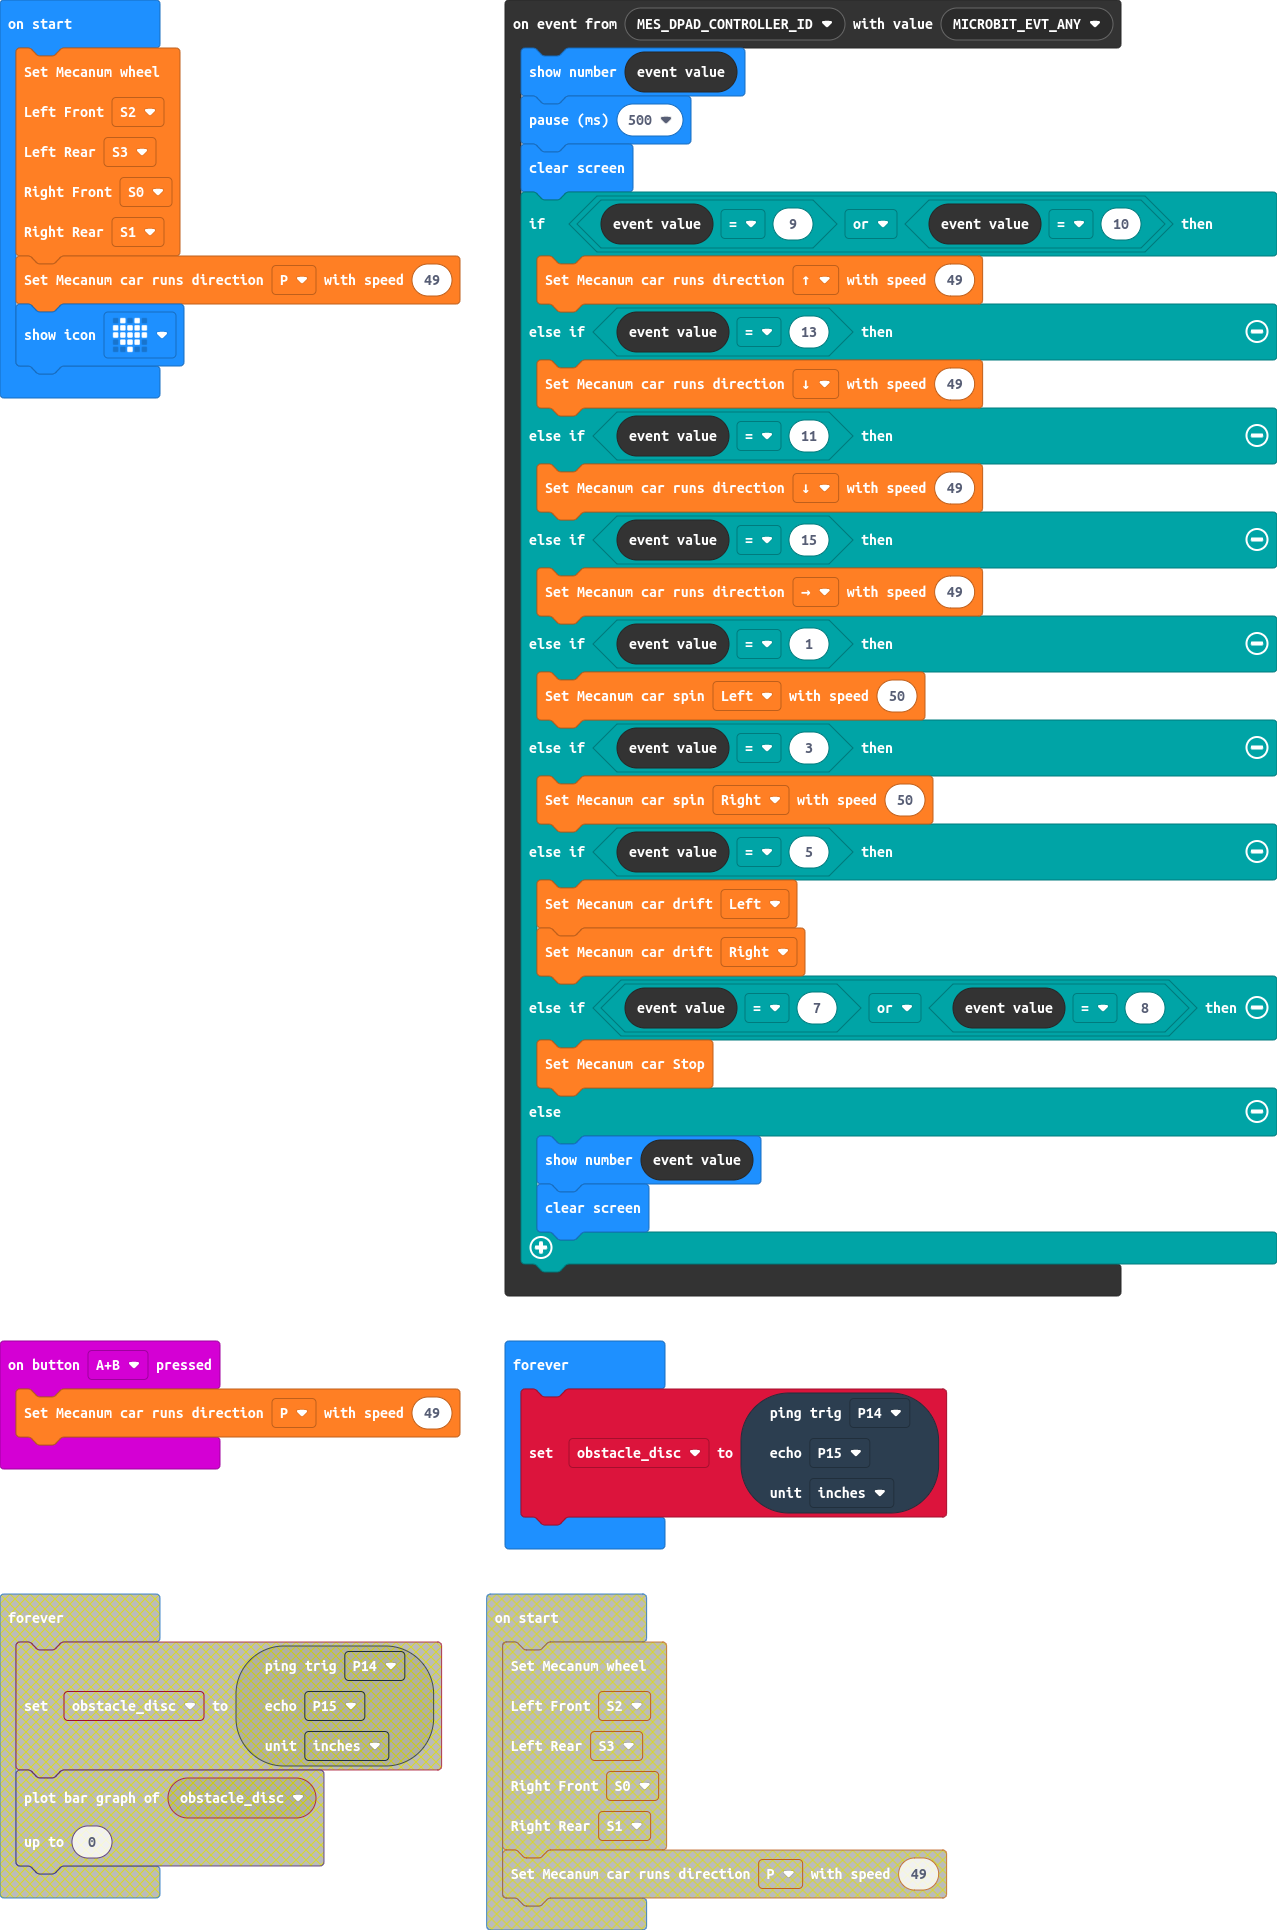
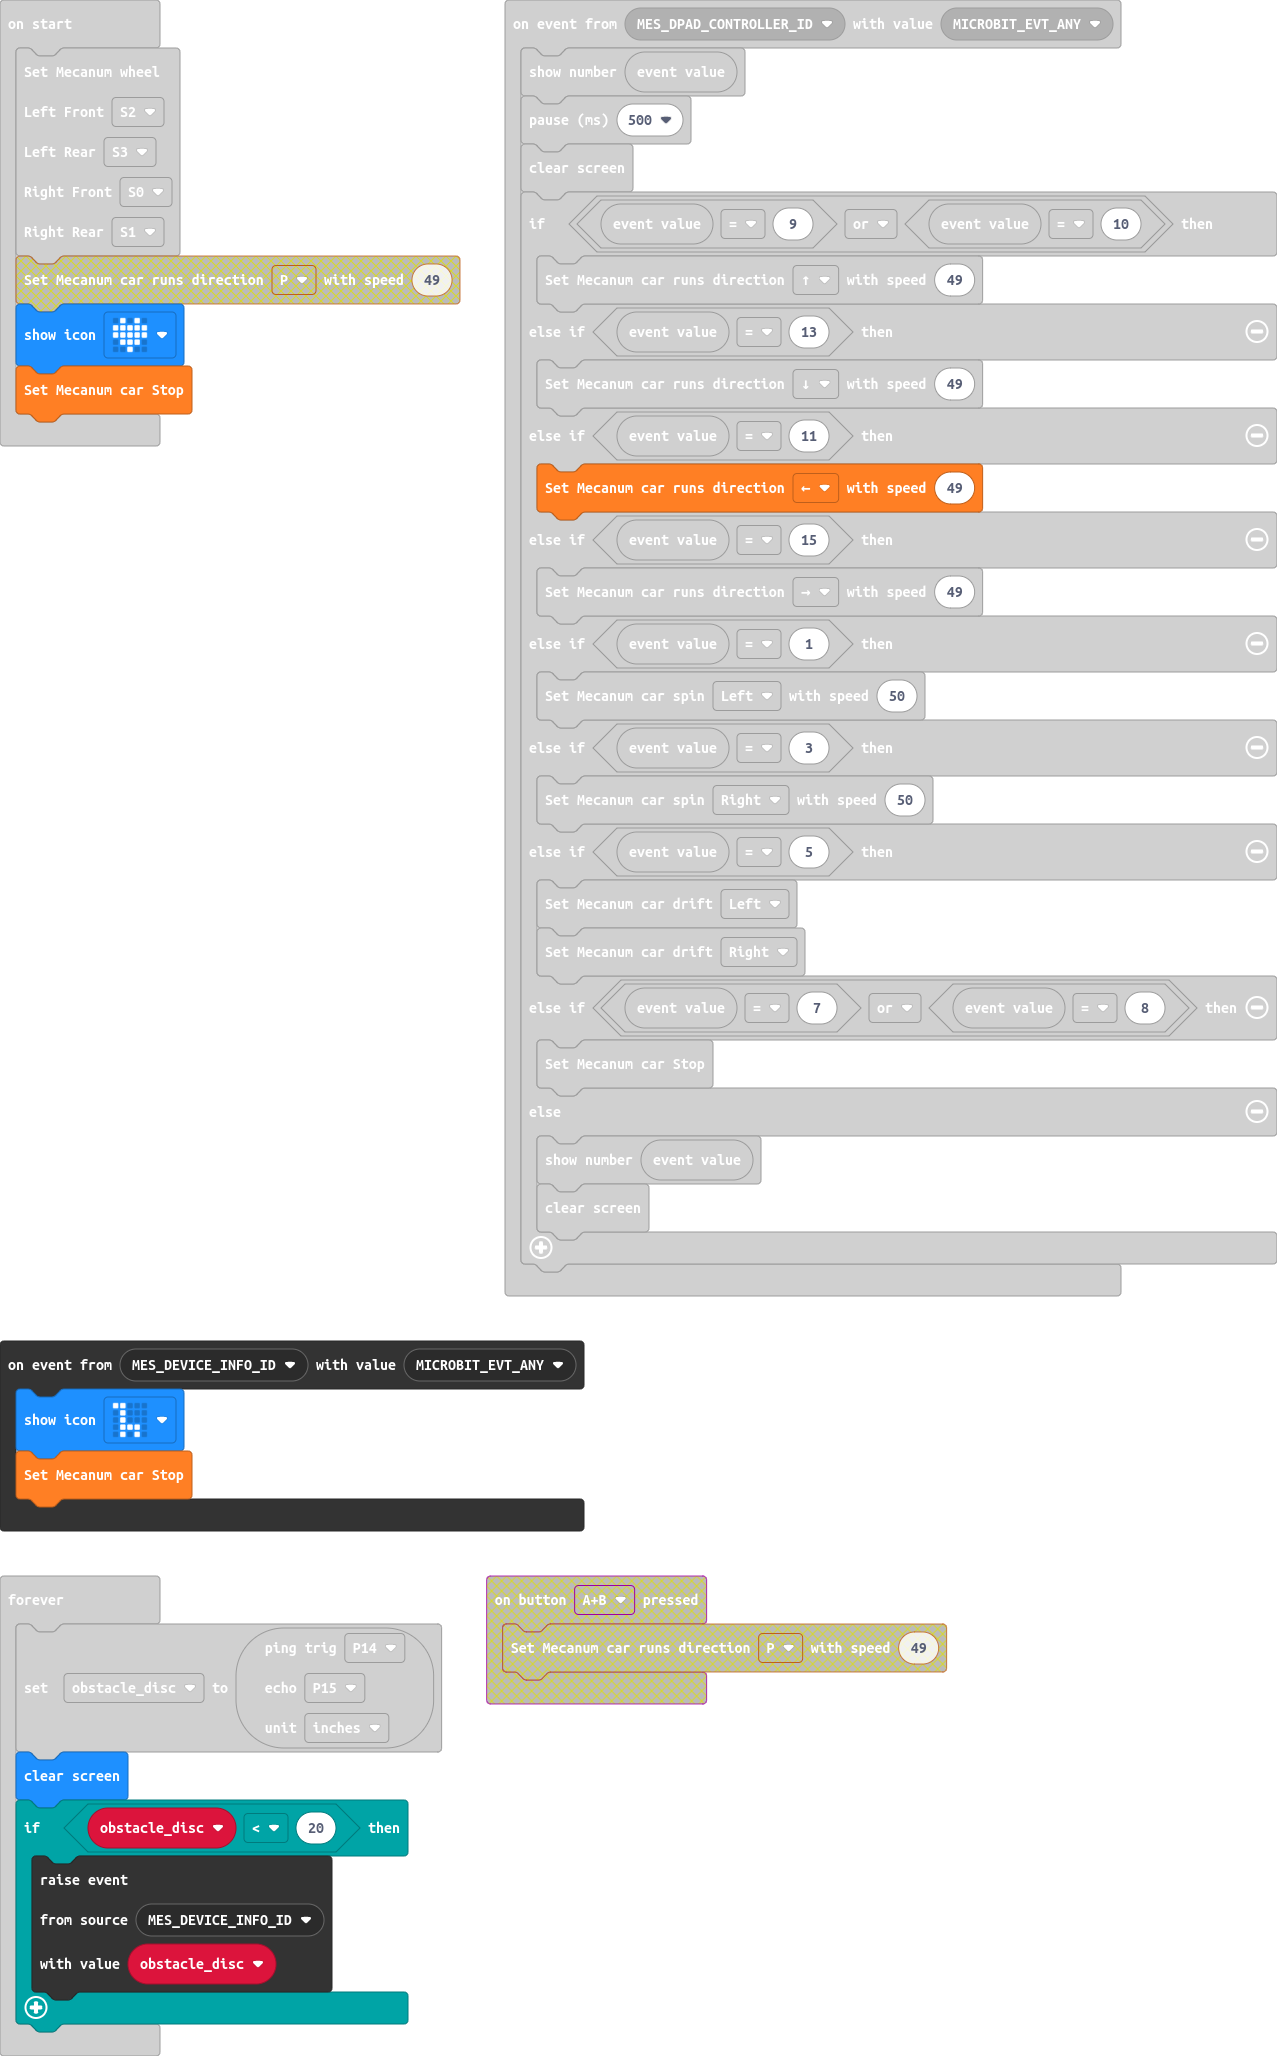
Update main.blocks, main.ts

diff --git a/main.ts b/main.ts
@@ -1,3 +1,7 @@
+control.onEvent(EventBusSource.MES_DEVICE_INFO_ID, EventBusValue.MICROBIT_EVT_ANY, function () {
+    basic.showIcon(IconNames.Giraffe)
+    wuKong.mecanumStop()
+})
 bluetooth.onBluetoothConnected(function () {
     basic.showIcon(IconNames.Pitchfork)
 })
@@ -6,9 +10,6 @@ bluetooth.onBluetoothDisconnected(function () {
 })
 input.onButtonPressed(Button.A, function () {
     wuKong.mecanumRun(wuKong.RunList.Front, 49)
-})
-input.onButtonPressed(Button.AB, function () {
-    wuKong.mecanumRun(wuKong.RunList.stop, 49)
 })
 input.onButtonPressed(Button.B, function () {
     wuKong.mecanumRun(wuKong.RunList.rear, 49)
@@ -22,7 +23,7 @@ control.onEvent(EventBusSource.MES_DPAD_CONTROLLER_ID, EventBusValue.MICROBIT_EV
     } else if (control.eventValue() == 13) {
         wuKong.mecanumRun(wuKong.RunList.rear, 49)
     } else if (control.eventValue() == 11) {
-        wuKong.mecanumRun(wuKong.RunList.rear, 49)
+        wuKong.mecanumRun(wuKong.RunList.left, 49)
     } else if (control.eventValue() == 15) {
         wuKong.mecanumRun(wuKong.RunList.right, 49)
     } else if (control.eventValue() == 1) {
@@ -46,7 +47,7 @@ wuKong.ServoList.S3,
 wuKong.ServoList.S0,
 wuKong.ServoList.S1
 )
-wuKong.mecanumRun(wuKong.RunList.stop, 49)
+wuKong.mecanumStop()
 basic.showIcon(IconNames.Heart)
 basic.forever(function () {
     obstacle_disc = sonar.ping(
@@ -54,4 +55,11 @@ basic.forever(function () {
     DigitalPin.P15,
     PingUnit.Inches
     )
+    basic.clearScreen()
+    if (obstacle_disc < 20) {
+        control.raiseEvent(
+        EventBusSource.MES_DEVICE_INFO_ID,
+        obstacle_disc
+        )
+    }
 })
